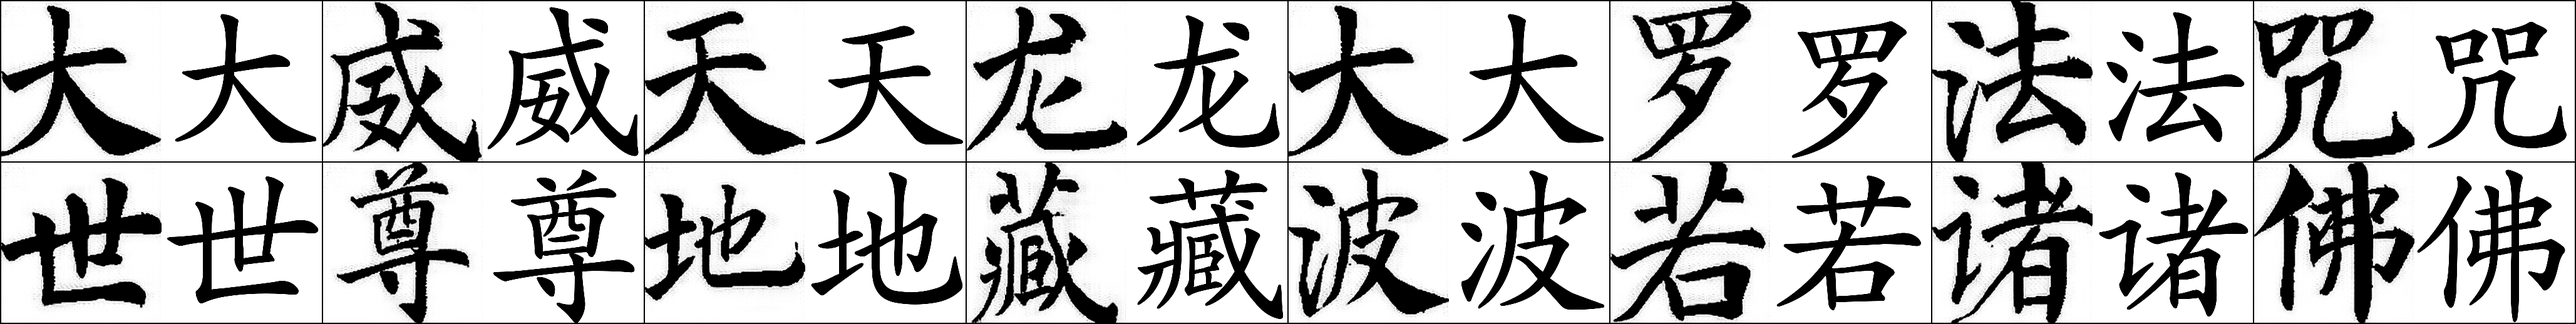
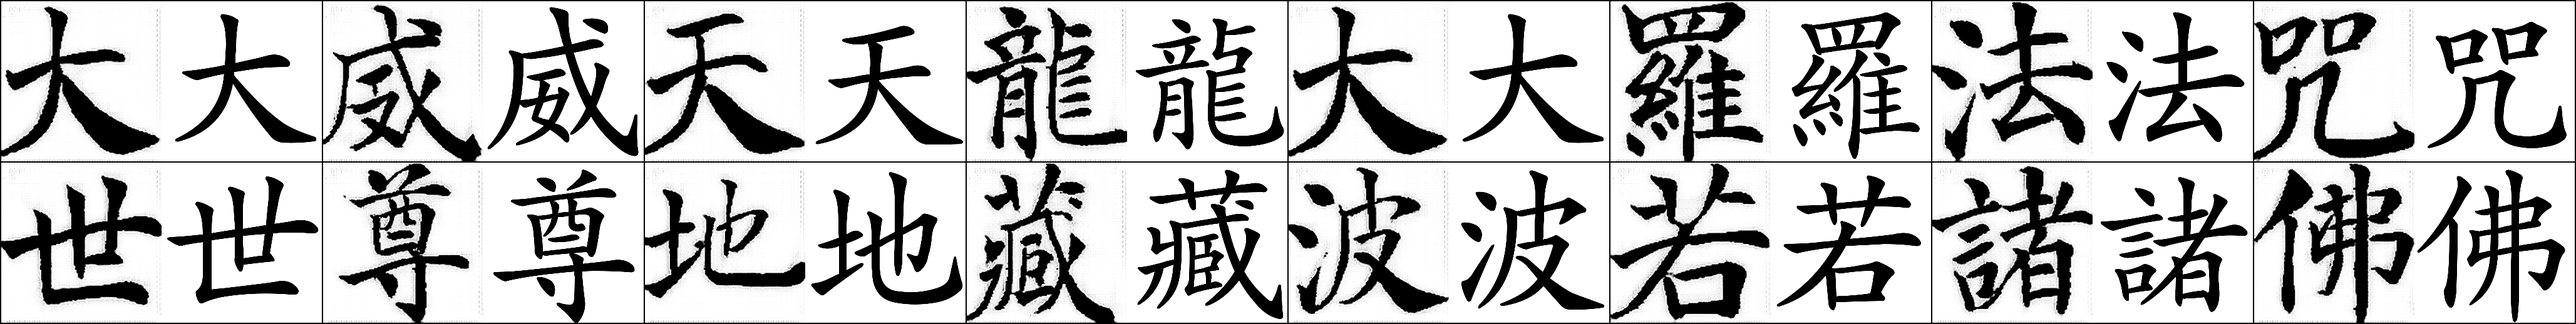
update

diff --git a/infer.py b/infer.py
@@ -32,7 +32,7 @@ parser.add_argument('--obj_path', type=str, default='./experiment/data/val.obj',
 parser.add_argument('--input_nc', type=int, default=1)
 
 parser.add_argument('--from_txt', action='store_true')
-parser.add_argument('--src_txt', type=str, default='大威天龙大罗法咒世尊地藏波若诸佛')
+parser.add_argument('--src_txt', type=str, default='大威天龍大羅法咒世尊地藏波若諸佛')
 parser.add_argument('--canvas_size', type=int, default=256)
 parser.add_argument('--char_size', type=int, default=256)
 parser.add_argument('--label', type=int, default=0)
